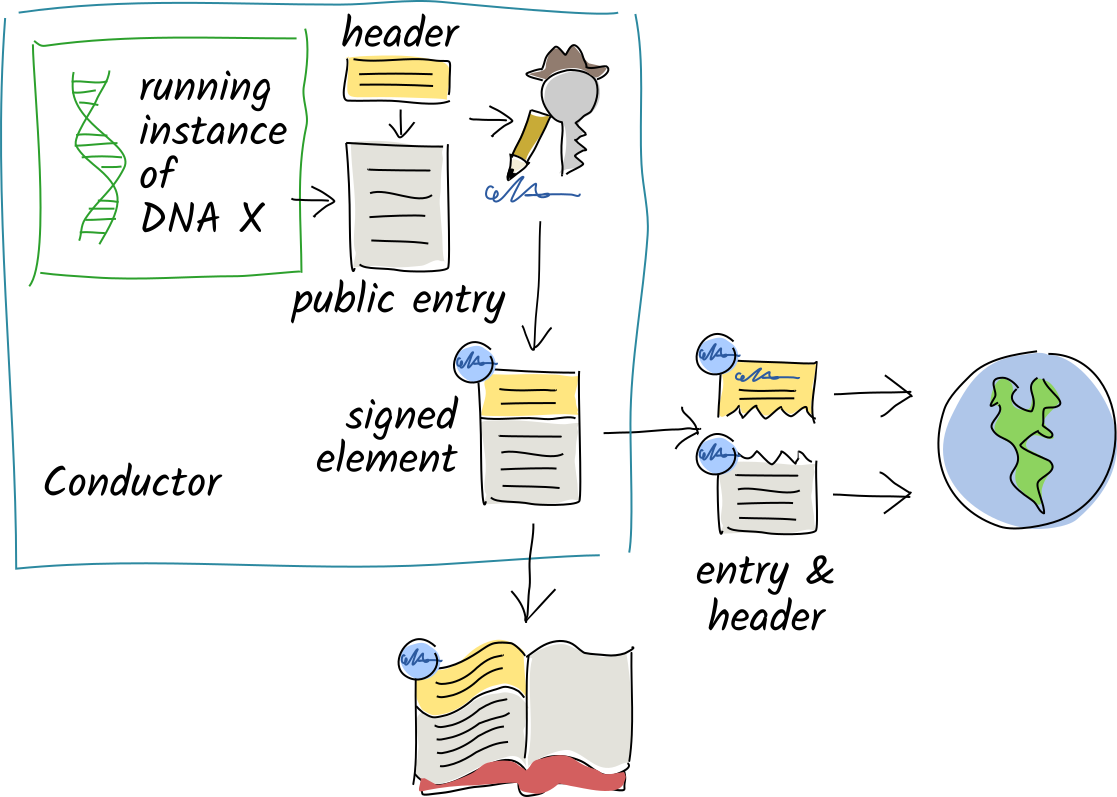
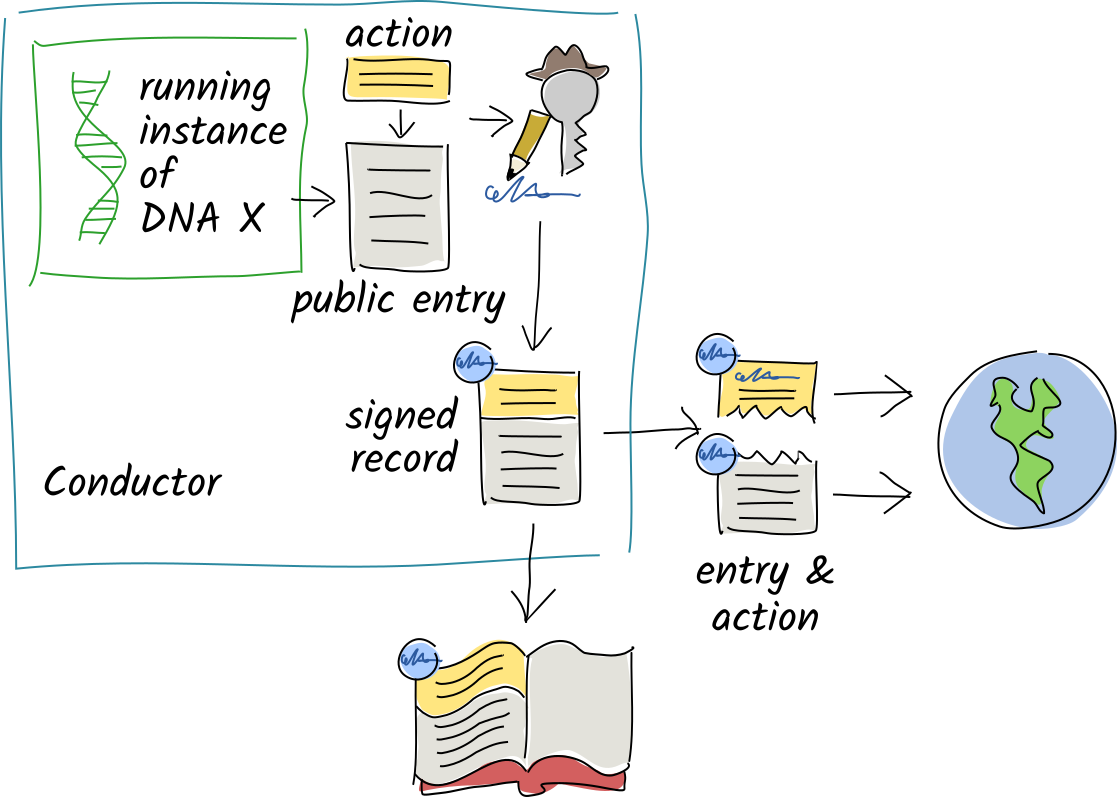
rename element→record, header→action in images

diff --git a/src/concepts/3_source_chain.md b/src/concepts/3_source_chain.md
@@ -87,7 +87,7 @@ Let's take a closer look at the action. Along with the signature, it includes th
 
 Let's look even more closely at that first line in the action.
 
-![](../../img/concepts/3.7-prev-action-hash.png)
+![](../../img/concepts/3.7-prev-action.png)
 
 This hash is the unique cryptographic ‘fingerprint’ for the previous record’s data. This is what ensures the integrity of the entire source chain. Each record points back to its previous entry. With a paper journal, it’s obvious when someone’s ripped out a page, glued a new page in, or taped a sheet of paper over an existing page. This chain of hashes is the digital equivalent: if anyone so much as modifies a single character in a record, all subsequent records will be invalidated.
 
